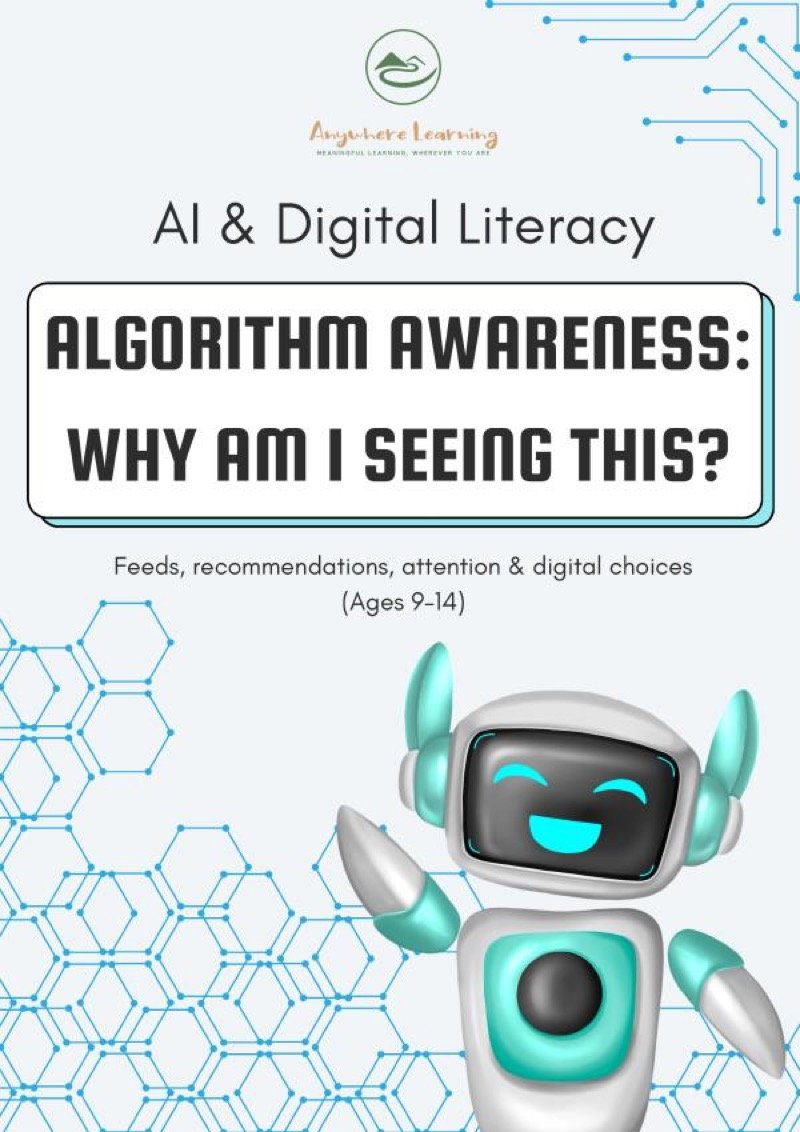
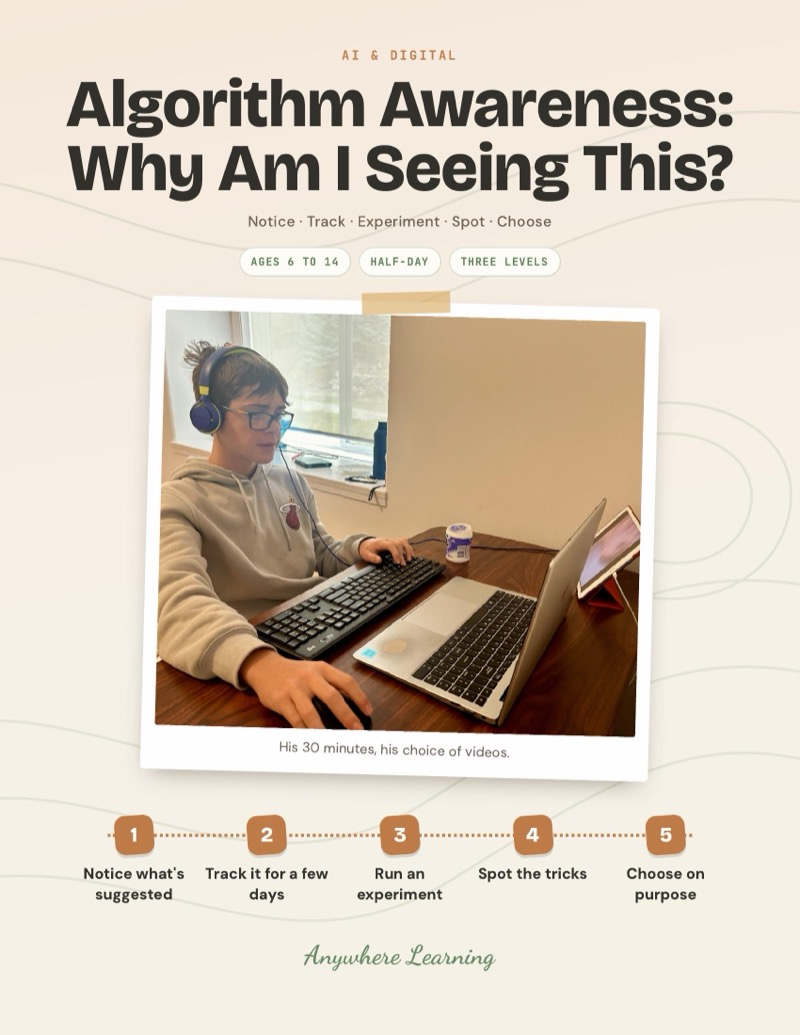
Algorithm Awareness: redesigned guide, recommendations experiment, keep-you-watching tricks, headphones photo, ages 6-14

diff --git a/scripts/seed.ts b/scripts/seed.ts
@@ -62,7 +62,7 @@ async function seed() {
 
     // === AI & DIGITAL LITERACY (sortOrder 70–79) ===
     { name: 'AI Basics: Myths, Facts & Smart Rules', slug: 'ai-basics', description: 'Your kid finds out what AI really is: a tool that predicts words from patterns, not a person and not a know-it-all. They guess, play a prediction game, test common myths at the screen, notice what happens when they talk to it like a friend and write the family AI rules together.', shortDescription: 'AI basics for kids ages 6-14: how AI really works, myths tested at the screen, why it sounds human, and family AI rules you write together.', priceCents: 599, compareAtPriceCents: null, stripePriceId: 'price_1TFcTfAMzOBftCntjVdNUY97', blobUrl: '', imageUrl: '/products/ai-basics.jpg', category: 'ai-literacy', isBundle: false, bundleProductIds: null, activityCount: null, ageRange: 'Ages 9\u201314', sortOrder: 70, active: true },
-    { name: 'Algorithm Awareness', slug: 'algorithm-awareness', description: 'Understand how algorithms shape what we see online.', shortDescription: 'Algorithm awareness.', priceCents: 599, compareAtPriceCents: null, stripePriceId: 'price_1TFcTfAMzOBftCntwgbhXS2c', blobUrl: '', imageUrl: '/products/algorithm-awareness.jpg', category: 'ai-literacy', isBundle: false, bundleProductIds: null, activityCount: null, ageRange: 'Ages 9\u201314', sortOrder: 71, active: true },
+    { name: 'Algorithm Awareness', slug: 'algorithm-awareness', description: 'Your kid finds out why YouTube and streaming apps show them what they show. They notice their recommendations, track what they watch for a few days, run a small experiment to see the suggestions change, spot the tricks that keep them watching and choose what to watch on purpose.', shortDescription: 'Algorithm literacy for kids ages 6-14: notice and track app suggestions, run a real experiment, spot keep-you-watching tricks and watch on purpose.', priceCents: 599, compareAtPriceCents: null, stripePriceId: 'price_1TFcTfAMzOBftCntwgbhXS2c', blobUrl: '', imageUrl: '/products/algorithm-awareness.jpg', category: 'ai-literacy', isBundle: false, bundleProductIds: null, activityCount: null, ageRange: 'Ages 9\u201314', sortOrder: 71, active: true },
     { name: 'Bias & Fairness Lab', slug: 'bias-fairness-lab', description: 'Explore bias in AI systems.', shortDescription: 'AI bias and fairness.', priceCents: 599, compareAtPriceCents: null, stripePriceId: 'price_1TFcTgAMzOBftCnty4weOSMp', blobUrl: '', imageUrl: '/products/bias-fairness-lab.jpg', category: 'ai-literacy', isBundle: false, bundleProductIds: null, activityCount: null, ageRange: 'Ages 9\u201314', sortOrder: 72, active: true },
     { name: 'Build Your Own AI Helper', slug: 'build-ai-helper', description: 'Your kid designs an AI helper for one real job, like answering questions with facts or drafting messages, and writes the rules it has to follow. Then they set it up with a grown-up, test it on real questions, fix what goes wrong and decide honestly whether it is worth using.', shortDescription: 'STEM AI project for kids ages 9-14: design an AI helper for one real job, write its rules, set it up with a grown-up, test it and fix it.', priceCents: 599, compareAtPriceCents: null, stripePriceId: 'price_1TFcTgAMzOBftCnt2rlB7hz4', blobUrl: '', imageUrl: '/products/build-ai-helper.jpg', category: 'ai-literacy', isBundle: false, bundleProductIds: null, activityCount: null, ageRange: 'Ages 9\u201314', sortOrder: 73, active: true },
     { name: 'Create With AI, Ethically', slug: 'create-with-ai', description: 'Your kid makes something real with AI, like a website, a story or a poster, and stays the one in charge. They decide what it is for and who it is for, do the parts that need them, let AI help with the rest, steer it until it matches what they had in mind and are honest about what AI made.', shortDescription: 'Creative AI for kids ages 6-14: plan a real project, let AI help with drafts and code, steer it until it is theirs and say honestly how it was made.', priceCents: 599, compareAtPriceCents: null, stripePriceId: 'price_1TFcThAMzOBftCnt9kE7d4xI', blobUrl: '', imageUrl: '/products/create-with-ai.jpg', category: 'ai-literacy', isBundle: false, bundleProductIds: null, activityCount: null, ageRange: 'Ages 9\u201314', sortOrder: 74, active: true },

diff --git a/lib/product-descriptions.ts b/lib/product-descriptions.ts
@@ -1290,24 +1290,24 @@ export const productDescriptions: Record<string, ProductDescription> = {
   },
   'algorithm-awareness': {
     opening:
-      'Teach kids how algorithms shape what they see online, and what they don\'t. Activities explore recommendation systems, filter bubbles, engagement tricks, and how to take back control of their feed. Critical thinking for the attention economy.',
+      'Your kid finds out why YouTube and streaming apps show them what they show. They notice their recommendations, track what they watch for a few days, run a small experiment to see the suggestions change, spot the tricks that keep them watching and choose what to watch on purpose.',
     whatsIncluded: [
-      'How recommendation algorithms work',
-      'Filter bubble exploration and awareness',
-      'Engagement trick identification',
-      'Feed audit and control strategies',
-      'Reflection on personal online habits',
+      'Five steps, from noticing suggestions to watching on purpose',
+      'What am I seeing?, Track it, Experiment, Keep-you-watching tricks and Take back control cards',
+      'A real experiment: change what you watch, predict, then check the home page',
+      'How to switch off autoplay and other tricks, inside the screen time you already allow',
+      'Three levels per step, from ages 6 to 14',
     ],
-    skillTags: ['STEM', 'Algorithm Literacy', 'Critical Thinking', 'Digital Citizenship', 'Self-Awareness'],
+    skillTags: ['Digital Literacy', 'Critical Thinking', 'Science', 'Data Collection', 'Self-Control'],
     insideTheLearning: {
       lead:
-        'Your child audits their own feed and works out why it shows them exactly what it shows them. They map how the recommendations are built, find the specific tricks used to hold their attention, then track what all of it does to their mood and their time. Hard to unsee once they have seen it.',
+        'Apps like YouTube and Netflix use an algorithm that guesses what you will watch next, based on what you watched before. Its job is to keep you watching. Your kid sees it happen with a real experiment, spots the design tricks, and learns to decide what to watch before the app does.',
       skills: [
-        { skill: 'Digital Literacy', where: 'Working out how a recommendation feed decides what to put in front of them' },
-        { skill: 'Critical Thinking', where: 'Spotting the engagement tricks a feed uses to keep them scrolling' },
-        { skill: 'Reflection', where: 'Tracking what their own feed does to their mood, their time and their habits' },
-        { skill: 'Self-Direction', where: 'Auditing the feed and taking back control of what it serves them' },
-        { skill: 'Decision-Making', where: 'Choosing deliberately what to follow rather than letting the algorithm choose' },
+        { skill: 'Digital Literacy', where: 'Understanding how recommendation systems pick what you see' },
+        { skill: 'Critical Thinking', where: 'Asking who decides what is on the home page, and why' },
+        { skill: 'Science', where: 'Predicting, changing one thing and checking the result' },
+        { skill: 'Data Collection', where: 'Tracking what they watch and what gets suggested after' },
+        { skill: 'Self-Control', where: 'Choosing before opening the app and stopping at the limit' },
       ],
     },
     format: 'Project Guide',

diff --git a/lib/fallback-products.ts b/lib/fallback-products.ts
@@ -835,20 +835,20 @@ export const fallbackProducts: FallbackProduct[] = [
     name: "Algorithm Awareness: Why Am I Seeing This?",
     slug: "algorithm-awareness",
     description:
-      "Teach kids how algorithms shape what they see online, and what they don't. Activities explore recommendation systems, filter bubbles, engagement tricks, and how to take back control of their feed. STEM technology literacy applied to the systems shaping their daily online life.",
+      "Your kid finds out why YouTube and streaming apps show them what they show. They notice their recommendations, track what they watch for a few days, run a small experiment to see the suggestions change, spot the tricks that keep them watching and choose what to watch on purpose.",
     shortDescription:
-      "STEM technology activity for kids ages 9-14: understand how algorithms shape what you see online and how to take back control.",
+      "Algorithm literacy for kids ages 6-14: notice and track app suggestions, run a real experiment, spot keep-you-watching tricks and watch on purpose.",
     priceCents: 599,
     compareAtPriceCents: null,
     stripePriceId: "price_1TLrq7AkIBECpwGmLznrtraX",
     blobUrl: "",
-    imageUrl: "/products/algorithm-awareness.jpg",
-    previewFile: "Preview AI + Digital Literacy - ALGORITHM AWARENESS WHY AM I SEEING THIS.pdf",
+    imageUrl: "/products/algorithm-awareness.jpg?v=2",
+    previewFile: "Preview AI & Digital Literacy - ALGORITHM AWARENESS WHY AM I SEEING THIS v3.pdf",
     category: "ai-literacy",
     isBundle: false,
     bundleProductIds: null,
     activityCount: null,
-    ageRange: "Ages 9–14",
+    ageRange: "Ages 6–14",
     sortOrder: 71,
     active: true,
     createdAt: new Date("2025-03-01"),

diff --git a/scripts/create-stripe-products.ts b/scripts/create-stripe-products.ts
@@ -49,7 +49,7 @@ const catalog = [
   { slug: 'write-like-a-pro', name: 'Write It Like a Pro', priceCents: 599, description: 'Writing for kids ages 6-14: pick a style, write for a real audience, edit, and revise. Seven writing styles, one finished piece.' },
   // ─── AI & Digital Literacy singles ($4.99) ───
   { slug: 'ai-basics', name: 'AI Basics: Myths, Facts & Smart Rules', priceCents: 599, description: 'AI basics for kids ages 6-14: how AI really works, myths tested at the screen, why it sounds human, and family AI rules you write together.' },
-  { slug: 'algorithm-awareness', name: 'Algorithm Awareness', priceCents: 599, description: 'Why Am I Seeing This? Understand how algorithms shape what we see.' },
+  { slug: 'algorithm-awareness', name: 'Algorithm Awareness', priceCents: 599, description: 'Algorithm literacy for kids ages 6-14: notice and track app suggestions, run a real experiment, spot keep-you-watching tricks and watch on purpose.' },
   { slug: 'bias-fairness-lab', name: 'Bias & Fairness Lab', priceCents: 599, description: 'Explore bias in AI systems and why fairness matters.' },
   { slug: 'build-ai-helper', name: 'Build Your Own AI Helper', priceCents: 599, description: 'STEM AI project for kids ages 9-14: design an AI helper for one real job, write its rules, set it up with a grown-up, test it and fix it.' },
   { slug: 'create-with-ai', name: 'Create With AI, Ethically', priceCents: 599, description: 'Creative AI for kids ages 6-14: plan a real project, let AI help with drafts and code, steer it until it is theirs and say honestly how it was made.' },

diff --git a/lib/skills.ts b/lib/skills.ts
@@ -43,7 +43,7 @@ export interface ProductSkills {
 export const productSkills: Record<string, ProductSkills> = {
   "adventure-story-map": { canonical: ["Creative Writing","Storytelling","Planning","Narrative","Art"], families: ["communication-and-writing","creativity-and-making","critical-thinking-and-reasoning","nature-and-science"] },
   "ai-basics": { canonical: ["AI Literacy","Critical Thinking","Digital Citizenship","Online Safety & Privacy"], families: ["tech-and-digital","critical-thinking-and-reasoning"] },
-  "algorithm-awareness": { canonical: ["Critical Thinking","Decision-Making","Digital Literacy","Reflection","Self-Direction"], families: ["critical-thinking-and-reasoning","planning-and-self-management","tech-and-digital"] },
+  "algorithm-awareness": { canonical: ["Digital Literacy","Critical Thinking","Science","Data & Graphs"], families: ["tech-and-digital","critical-thinking-and-reasoning","nature-and-science"] },
   "backyard-campout-planner": { canonical: ["Measurement","Budgeting","Time Planning","Estimation","Organisation"], families: ["math-and-money"] },
   "bias-fairness-lab": { canonical: ["AI Literacy","Communication","Critical Thinking","Decision-Making","Empathy"], families: ["communication-and-writing","critical-thinking-and-reasoning","empathy-and-people","tech-and-digital"] },
   "board-game-studio": { canonical: ["Design Thinking","Maths","Writing","Strategy","Art"], families: ["creativity-and-making","math-and-money"] },

diff --git a/lib/activity-blob-urls.ts b/lib/activity-blob-urls.ts
@@ -11,7 +11,7 @@
 export const ACTIVITY_BLOB_URLS: Record<string, string> = {
   "adventure-story-map": "https://xkj3tzlgu6ylgllk.public.blob.vercel-storage.com/Communication%20%26%20Writing%20-%20Adventure%20Story%20Map%20v7.pdf",
   "ai-basics": "https://xkj3tzlgu6ylgllk.public.blob.vercel-storage.com/AI%20%26%20Digital%20Literacy%20-%20AI%20BASICS%20MYTHS%2C%20FACTS%20%26%20SMART%20RULES%20v3.pdf",
-  "algorithm-awareness": "https://xkj3tzlgu6ylgllk.public.blob.vercel-storage.com/AI%20%26%20Digital%20Literacy%20-%20ALGORITHM%20AWARENESS%20WHY%20AM%20I%20SEEING%20THIS%20v2.pdf",
+  "algorithm-awareness": "https://xkj3tzlgu6ylgllk.public.blob.vercel-storage.com/AI%20%26%20Digital%20Literacy%20-%20ALGORITHM%20AWARENESS%20WHY%20AM%20I%20SEEING%20THIS%20v3.pdf",
   "backyard-campout-planner": "https://xkj3tzlgu6ylgllk.public.blob.vercel-storage.com/Real-world%20math%20-%20Backyard%20Campout%20Planner%20v6.pdf",
   "bias-fairness-lab": "https://xkj3tzlgu6ylgllk.public.blob.vercel-storage.com/AI%20%26%20Digital%20Literacy%20-%20BIAS%20%26%20FAIRNESS%20LAB%20v2.pdf",
   "big-feelings-lab": "https://xkj3tzlgu6ylgllk.public.blob.vercel-storage.com/Emotional%20%26%20Social%20Skills%20-%20The%20Big%20Feelings%20Lab%20v4.pdf",
